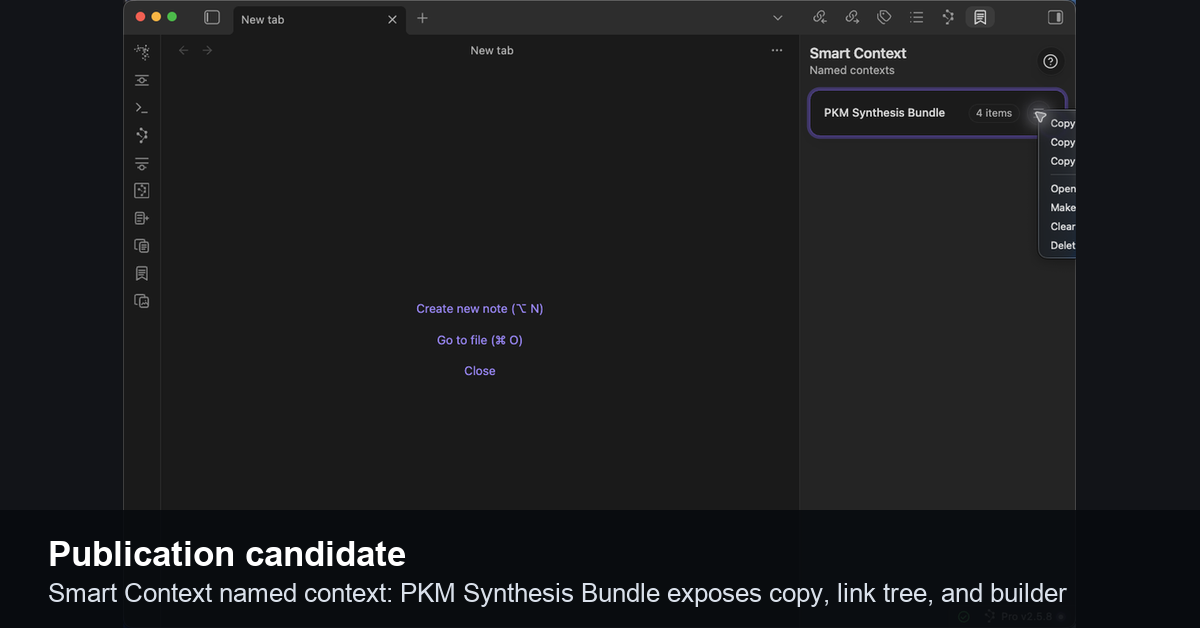
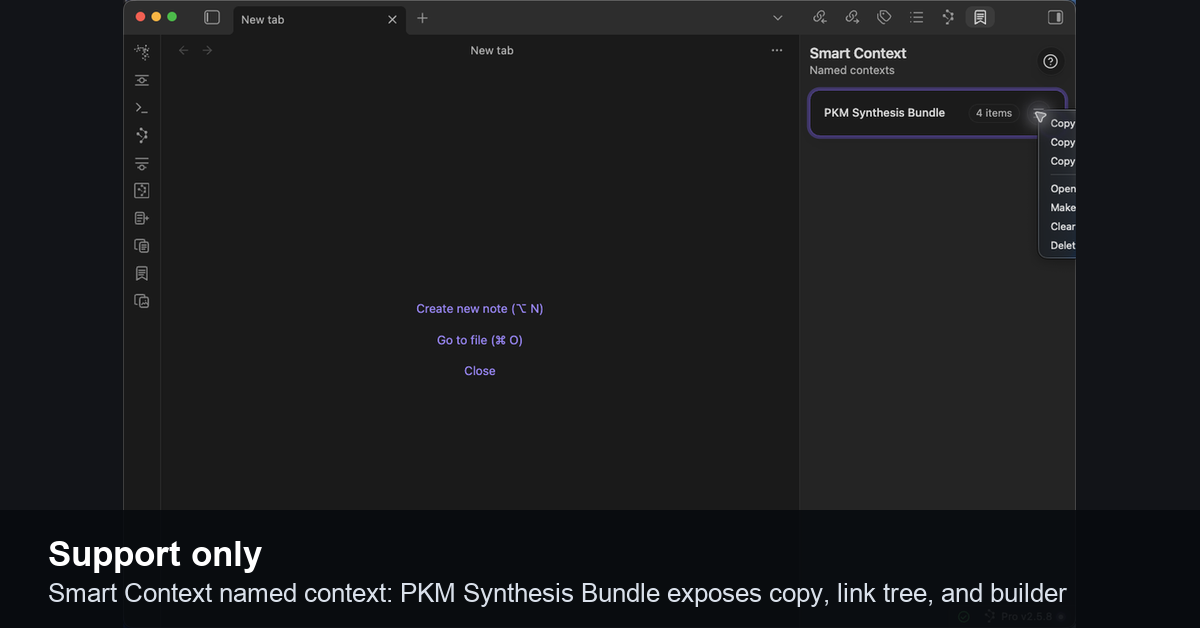
fix: Update campaign asset counts and support derivative details in visual QA contact sheets

Changed region(s): [[0.0925, 0.8471, 0.3392, 0.9076], [0.0308, 0.8471, 0.0617, 0.9076]]

diff --git a/surfaces/_visual-qa-plugin-context-100x-recaptures.md b/surfaces/_visual-qa-plugin-context-100x-recaptures.md
@@ -7,9 +7,10 @@ surface_type: "plugin"
 surface_count: 4
 raw_screenshot_count: 5
 crop_count: 5
-campaign_asset_count: 5
+campaign_asset_count: 4
 publication_candidate_count: 4
 support_only_count: 1
+support_derivative_count: 1
 ---
 # Smart Context and Connections 100X recaptures
 

diff --git a/surfaces/_visual-qa-plugin-recapture-contact-sheet.md b/surfaces/_visual-qa-plugin-recapture-contact-sheet.md
@@ -6,7 +6,8 @@ updated_on: 2026-06-30
 surface_type: "plugin"
 raw_screenshot_count: 27
 crop_count: 21
-campaign_asset_count: 12
+campaign_asset_count: 11
+support_derivative_count: 1
 ---
 # Plugin recapture contact sheet
 

diff --git a/surfaces/_visual-qa-contact-sheet.md b/surfaces/_visual-qa-contact-sheet.md
@@ -37,7 +37,7 @@ A reviewer can open one workflow note, jump to native or plugin contact sheets, 
 - [[_visual-qa-native-ruthless-critique|Native screenshot ruthless critique]]: 22 keep, 14 crop candidate, 0 recapture.
 - [[_visual-qa-plugin-contact-sheet|Plugin surface contact sheet]]: 34 surfaces, 57 current screenshots, with legacy evidence in [[_visual-qa-plugin-raw-archive-manifest]].
 - [[_visual-qa-plugin-publication-candidates|Plugin publication-candidate contact sheet]]: 34 surfaces, 57 candidate screenshots.
-- [[_visual-qa-plugin-recapture-contact-sheet|Plugin recapture contact sheet]]: 27 raw captures, 21 crops, and 12 campaign assets from the 2026-06-30 pass.
+- [[_visual-qa-plugin-recapture-contact-sheet|Plugin recapture contact sheet]]: 27 raw captures, 21 crops, 11 campaign assets, and 1 support derivative from the 2026-06-30 pass.
 - [[_visual-qa-plugin-graph-context-campaign-assets|Plugin graph/context campaign assets]]: 4 promoted captioned assets.
 - [[_visual-qa-plugin-raw-archive-manifest|Plugin raw archive manifest]]: 250 archived and demoted screenshot references from plugin surface buckets.
 - [[_visual-qa-plugin-smart-graph-100x-recaptures|Smart Graph 100X recaptures]]: Focus cluster, Neighborhood, and Split right campaign assets.